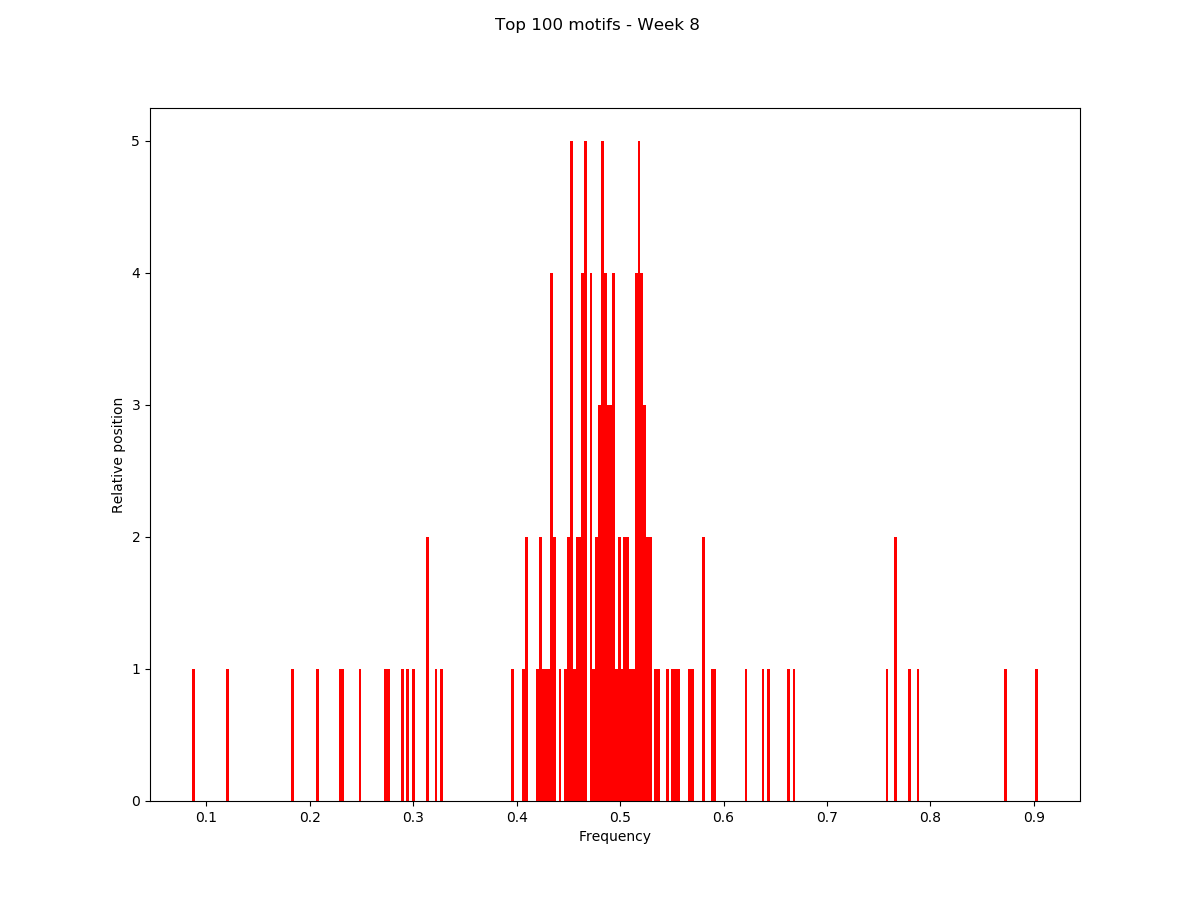
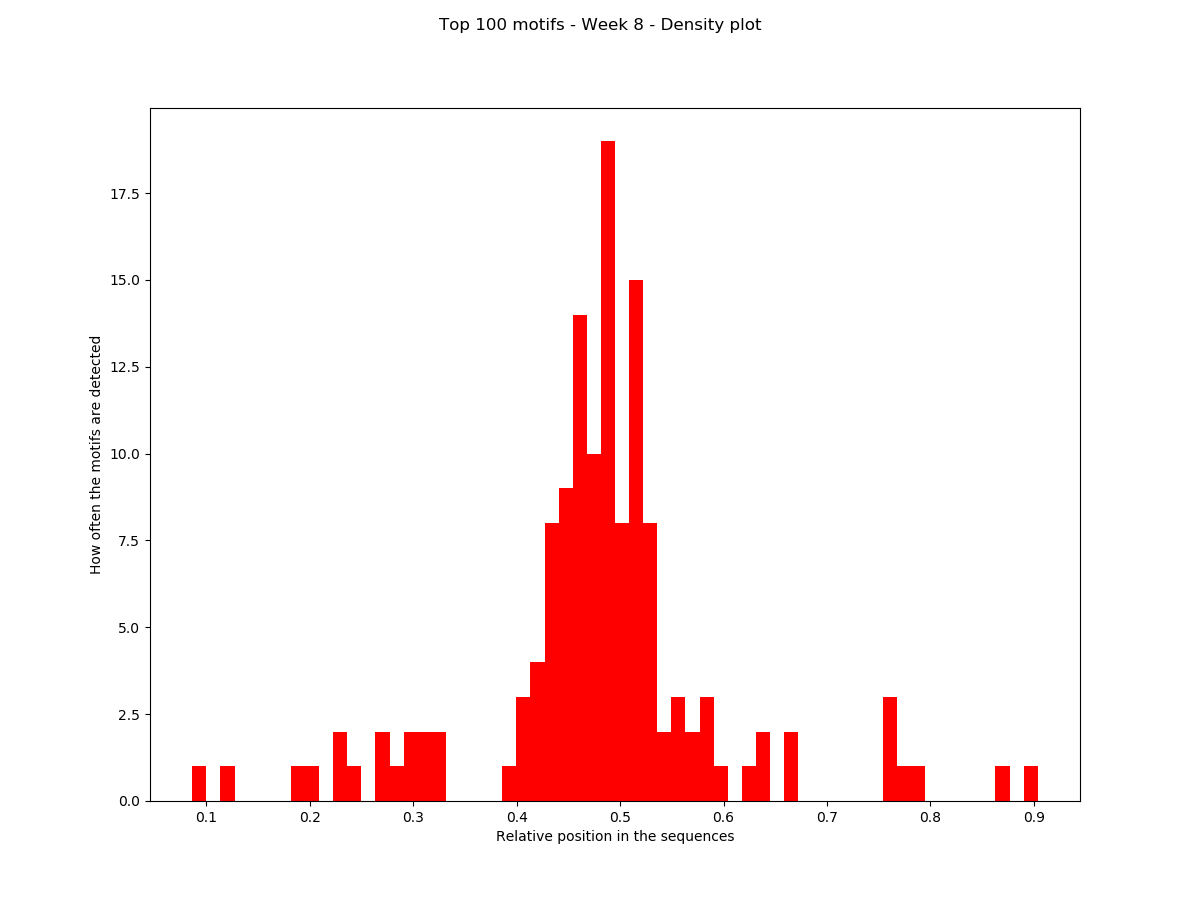
Week8 Update

diff --git a/Week8/Week8.py b/Week8/Week8.py
@@ -44,10 +44,10 @@ for count, line in enumerate(Bed):
 #Plot#
 fig, ax = plt.subplots() 
 fig.set_size_inches(12, 9)
-plt.hist(Percentage, bins=300, color="red")
-ax.set_xlabel("Frequency")
-ax.set_ylabel("Relative position")
-fig.suptitle("Top 100 motifs - Week 8 ")
+plt.hist(Percentage, bins=60, color="red")
+ax.set_xlabel("Relative position in the sequences")
+ax.set_ylabel("How often the motifs are detected")
+fig.suptitle("Top 100 motifs - Week 8 - Density plot")
 fig.savefig("Week8.png")
 plt.tight_layout()
 plt.close(fig)
